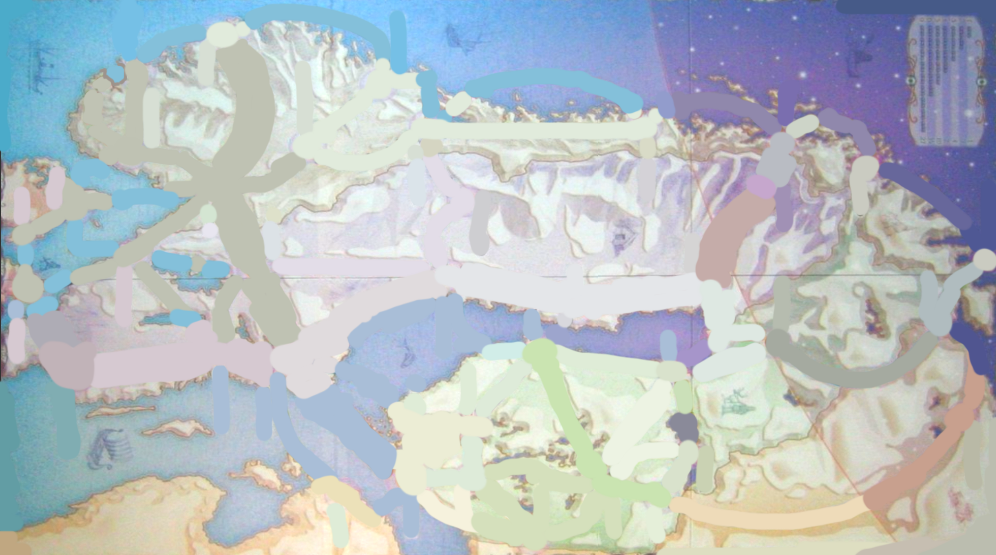
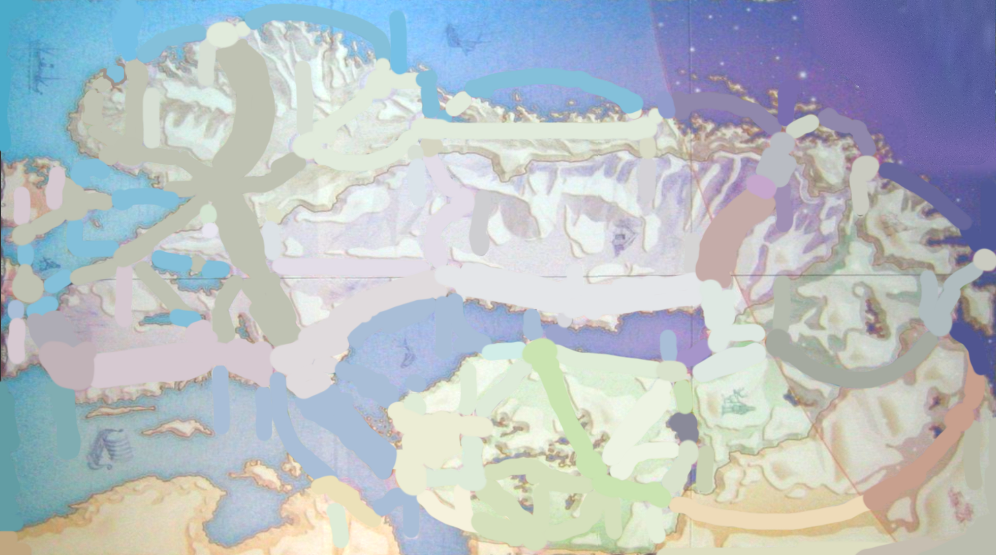
Edited out the background scoring table

Changed region(s): [[0.8092, 0.0, 1.0, 0.3063], [0.8404, 0.0613, 0.8715, 0.1225]]

diff --git a/src/main/java/client/GameTestView.java b/src/main/java/client/GameTestView.java
@@ -17,6 +17,7 @@ public class GameTestView extends Application {
         Parent root = loader.load();
         Scene scene = new Scene(root, 1920, 1080);
         primaryStage.setScene(scene);
+        primaryStage.setFullScreen(true);
         primaryStage.setTitle("GameScreen");
         primaryStage.show();
     }

diff --git a/src/main/java/client/ui/FullGameController.java b/src/main/java/client/ui/FullGameController.java
@@ -1,0 +1,15 @@
+package client.ui;
+
+import javafx.fxml.FXML;
+import javafx.scene.layout.Pane;
+
+public class FullGameController {
+
+    @FXML
+    private Pane routesMap, rootPane;
+
+    public void initialize() {
+
+    }
+
+}
